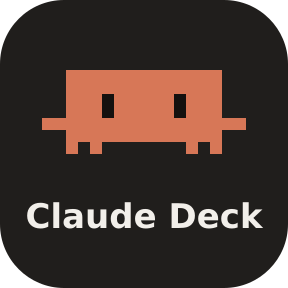
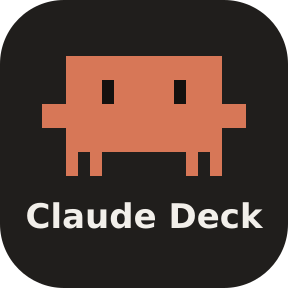
Give Clawd his real proportions back
The pixel map Claude Code ships draws every band two cells tall: eyes, arms,
lower body and legs. Squaring it up had halved all but the eyes, which left
Clawd a flat bar. Keys, the category icon and the Marketplace tile now use the
17 x 10 map.

diff --git a/src/ui/render.ts b/src/ui/render.ts
@@ -73,7 +73,9 @@ const CLAWD = "#D77757";
  * Clawd, Claude Code's mascot, in its neutral pose.
  *
  * Taken from the pixel map Claude Code ships (`C` body, `E` eye), squared up
- * so both arms rest at the sides. 17 × 7 cells.
+ * so both arms rest at the sides. Every band in that map is two cells tall —
+ * eyes, arms, lower body and legs alike; halving any of them squashes Clawd
+ * into a flat bar. 17 × 10 cells.
  */
 const CLAWD_BODY = [
 	"..CCCCCCCCCCCCC..",
@@ -81,10 +83,12 @@ const CLAWD_BODY = [
 	"..CCCECCCCCECCC..",
 	"..CCCECCCCCECCC..",
 	"CCCCCCCCCCCCCCCCC",
+	"CCCCCCCCCCCCCCCCC",
+	"..CCCCCCCCCCCCC..",
 	"..CCCCCCCCCCCCC..",
 ];
 
-/** Leg rows: still, and the two steps of a walk. */
+/** Leg row, drawn twice: still, and the two steps of a walk. */
 const CLAWD_LEGS = {
 	still: "..C.C.......C.C..",
 	stepA: "..C..C.....C..C..",
@@ -111,12 +115,13 @@ export function clawd(mood: Mood, phase: number, cx: number, top: number, cell: 
 
 	const rows = CLAWD_BODY.map((row, index) => {
 		// Waiting: the right arm goes up, like a hand raised for attention.
-		if (mood === "waiting" && index === 4) {
+		if (mood === "waiting" && (index === 4 || index === 5)) {
 			return "CCCCCCCCCCCCCCC..";
 		}
 		return row;
 	});
-	rows.push(walking ? (step ? CLAWD_LEGS.stepA : CLAWD_LEGS.stepB) : CLAWD_LEGS.still);
+	const legs = walking ? (step ? CLAWD_LEGS.stepA : CLAWD_LEGS.stepB) : CLAWD_LEGS.still;
+	rows.push(legs, legs);
 
 	const rects: string[] = [];
 	const add = (x: number, y: number, w: number, h: number, fill: string) =>
@@ -141,7 +146,7 @@ export function clawd(mood: Mood, phase: number, cx: number, top: number, cell: 
 
 	if (mood === "waiting") {
 		// The raised arm, straight up from the shoulder.
-		add(15, 3, 2, 1, body);
+		add(15, 3, 2, 2, body);
 		add(16, 0, 1, 3, body);
 	}
 
@@ -467,7 +472,7 @@ export function tile(options: TileOptions): string {
 		}
 		${solid ? "" : edge(options.edge ?? "quiet", hue && (options.edge ?? "quiet") === "quiet" ? hue : tone, phase)}
 		${top}
-		${mascot ? clawd(mascot, phase, 36, 47, 2.6) : ""}
+		${mascot ? clawd(mascot, phase, 36, 46, 2.2) : ""}
 		${middle}
 		${bottom}
 		${bar}
